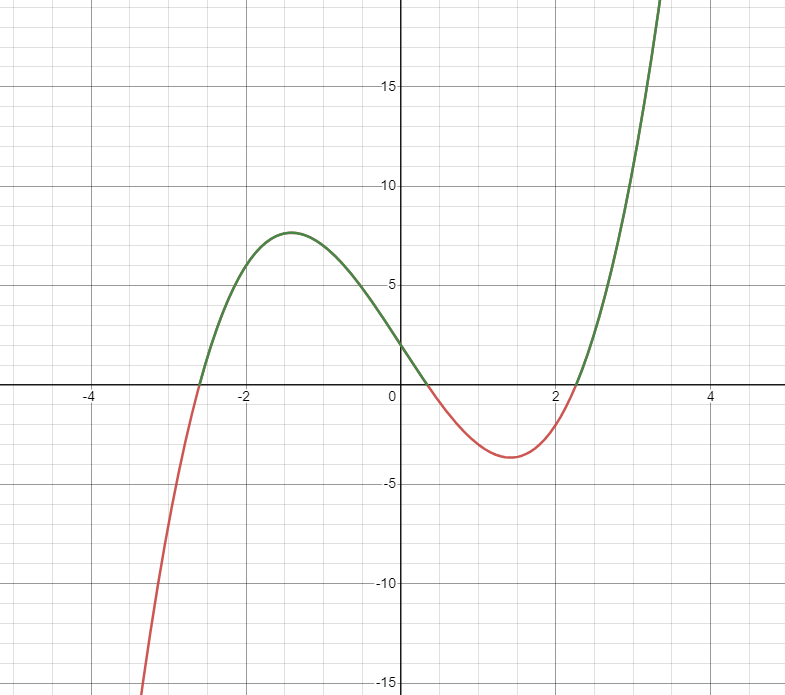
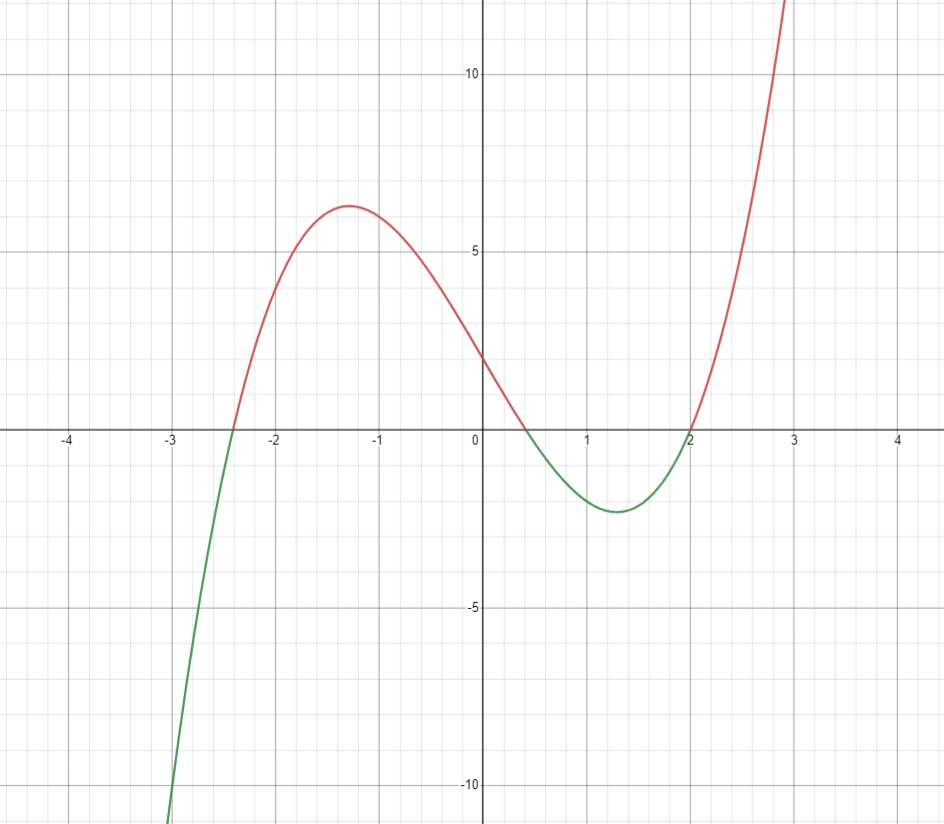
fix

diff --git a/articles/ctf-crypto-ellipticcurve.md b/articles/ctf-crypto-ellipticcurve.md
@@ -40,7 +40,7 @@ $$
 
 グラフがどうしてこんな形になるかというと、まず楕円曲線を $y = \pm\sqrt{x^3 + ax + b}$ と変形します。この平方根の中の 3 次関数は 2 回曲がるような曲線です。その $\pm$ のルートなので 3 次関数の正の部分を上下に伸ばすと丁度楕円曲線の形になるでしょう。そしてパラメータ $a, b$ を動かすことでさまざまな楕円曲線を生成しています。
 
-![](/images/cubical.png =480x)
+![](/images/cubical_sym.png =480x)
 
 この章では楕円曲線の点同士で行われる摩訶不思議な"足し算"を紹介します。
 
